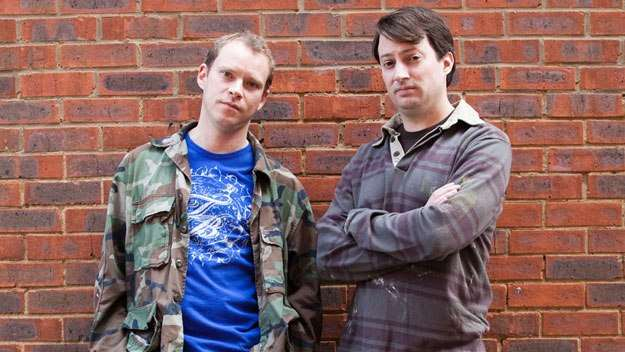
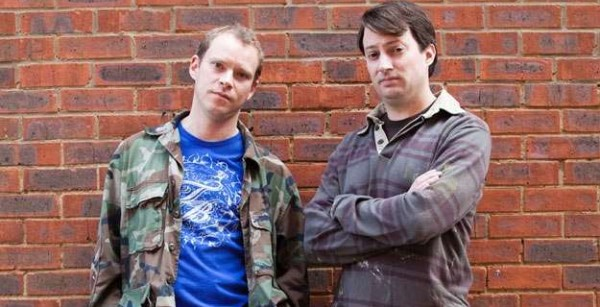
Resize pics and change display settings

diff --git a/script.js b/script.js
@@ -1,42 +1,48 @@
 // QUOTES
 
-const markArray = ["Note to self re: Being the The Fonz. Mark, you are NOT The Fonz.",
-                    "I do sort of like it when he’s rude to me. Hopefully that’s more a psychological defect than a weird sexual thing.", 
-                    "We have something special! We can’t throw all that away just because I spy on you!", 
-                    "She is attractive, but brown rice and pop tarts, chamomile tea and economy vodka? That's a car crash of a shopping basket.",
-                    "I’m just a normal functioning member of the human race and there’s no way anyone can prove otherwise.",
-                    "I have entered the abyss. I've bought a house in the abyss. I'm getting my post forwarded to the abyss.",
-                    "How much pain can I experience at home with a spaghetti carbonara and Das Boot?"
+const markArray = ['"Note to self re: Being the The Fonz. Mark, you are NOT The Fonz."',
+                    '"I do sort of like it when he’s rude to me. Hopefully that’s more a psychological defect than a weird sexual thing."', 
+                    '"We have something special! We can’t throw all that away just because I spy on you!"', 
+                    '"She is attractive, but brown rice and pop tarts, chamomile tea and economy vodka? That\'s a car crash of a shopping basket."',
+                    '"I’m just a normal functioning member of the human race and there’s no way anyone can prove otherwise."',
+                    '"I have entered the abyss. I\'ve bought a house in the abyss. I\'m getting my post forwarded to the abyss."',
+                    '"How much pain can I experience at home with a spaghetti carbonara and Das Boot?"'
                 ];
 
-const jezArray = ["Mark, do you have live so relentlessly in the real world?",
-                    "You realise that tinned food is just for crackheads and wars?",
-                    "Mark, if I can just get rid of the dog corpse, there's a chance I still might get laid here.",
-                    "Not to be too la-di-dah, but is there a room with fewer snakes available?",
-                    "I don't want to tempt fate but I think everything is going to be totally great forever."
+const jezArray = ['"Mark, do you have live so relentlessly in the real world?"',
+                    '"You realise that tinned food is just for crackheads and wars?"',
+                    '"Mark, if I can just get rid of the dog corpse, there\'s a chance I still might get laid here."',
+                    '"Not to be too la-di-dah, but is there a room with fewer snakes available?"',
+                    '"I don\'t want to tempt fate but I think everything is going to be totally great forever."'
                 ];
 
-const hansArray = ["Nice box of Crunchy Nut you've got there, quite expensive I seem to recall...",
-                    "Tell you what, that crack is really moreish.",
-                    "You're not just a man anymore - you are a man with a van. You get a van Jez, we could be men with ven.",
-                    "You are paying for that snake to be dry-cleaned.",
-                    "You've been thinking thoughts your whole life. Look where that got you.",
-                    "...is the bottom half of me on fire?",
-                    "We speak the language of love. And a little bit of German."
+const hansArray = ['"Nice box of Crunchy Nut you\'ve got there, quite expensive I seem to recall..."',
+                    '"Tell you what, that crack is really moreish."',
+                    '"You\'re not just a man anymore - you are a man with a van. You get a van Jez, we could be men with ven."',
+                    '"You are paying for that snake to be dry-cleaned."',
+                    '"You\'ve been thinking thoughts your whole life. Look where that got you."',
+                    '"...is the bottom half of me on fire?"',
+                    '"We speak the language of love. And a little bit of German."'
                 ];
 
-const dobbieArray = ["Well, it used to be all pink and tidy but then feminism happened and we all just started pissing on the floor",
-                    "I'm a smoker, I need man-cheddar",
-                    "I love that whole 'Screw you all, I'm a cat' vibe.",
-                    "Mark, you're not trying to get away with pretending you're a normal human being are you?"]
+const dobbieArray = ['"Well, it used to be all pink and tidy but then feminism happened and we all just started pissing on the floor"',
+                    '"I\'m a smoker, I need man-cheddar"',
+                    '"I love that whole \'Screw you all, I\'m a cat\' vibe."',
+                    '"Mark, you\'re not trying to get away with pretending you\'re a normal human being are you?"']
 
 
 
 
 let quoteButton = document.getElementById('quote-button');
 let quoteText = document.getElementById('quote-text');
+let markPic = document.getElementById('mark-pic');
+let jezPic = document.getElementById('jez-pic');
+let hansPic = document.getElementById('hans-pic');
+let dobbiePic = document.getElementById('dobbie-pic');
+let markJezPic = document.getElementById('mark-jez-pic')
 
 
+// Mark quote function
 function quoteSelector() {
     let randomQuote = Math.floor(Math.random() * markArray.length);
     return markArray[randomQuote];
@@ -44,6 +50,9 @@ function quoteSelector() {
 
 function showQuote() {
     quoteText.innerHTML = quoteSelector();
+    markPic.style.display = 'block';
+    markJezPic.style.display = 'none';
+
 };
 quoteButton.addEventListener('click', showQuote);
 

diff --git a/index.html b/index.html
@@ -19,7 +19,11 @@
 
     <main>
         <div class="container">
-            <img src="./images/mark.jpg" alt="Mark Corrigan">
+            <img id="mark-jez-pic" src="./images/markAndJez.jpg" alt="Mark and Jeremy from the Channel 4 sitcom Peep Show">
+            <img id="mark-pic" src="./images/mark.jpg" alt="Mark Corrigan from the Channel 4 sitcom Peep Show">
+            <img id="jez-pic" src="./images/jez2.jpg" alt="Jeremy Usborne from the Channel 4 sitcom Peep Show">
+            <img id="hans-pic" src="./images/superHans.jpg" alt="Super Hans from the Channel 4 sitcom Peep Show">
+            <img id="dobbie-pic" src="./images/dobbie.jpg" alt="Dobbie from the Channel 4 sitcom Peep Show">
             <p id="quote-text"></p>
 
         </div>

diff --git a/style.css b/style.css
@@ -34,6 +34,7 @@ div.container {
 img {
     width: 100%;
     height: auto;
+    border: 4px solid linen;
   }
 
 #quote-text {
@@ -44,7 +45,7 @@ img {
     transform: translate(-50%, -20%);
     text-align: center;
     font-size: 2rem;
-    text-shadow: 0px 0px 10px black;
+    text-shadow: 1px 1px 10px black;
     
     
 }
@@ -70,4 +71,24 @@ span {
 
 
 
+}
+
+#mark-jez-pic {
+    display: block;
+}
+
+#mark-pic {
+    display: none;
+}
+
+#jez-pic {
+    display: none;
+}
+
+#hans-pic {
+    display: none;
+}
+
+#dobbie-pic {
+    display: none;
 }
